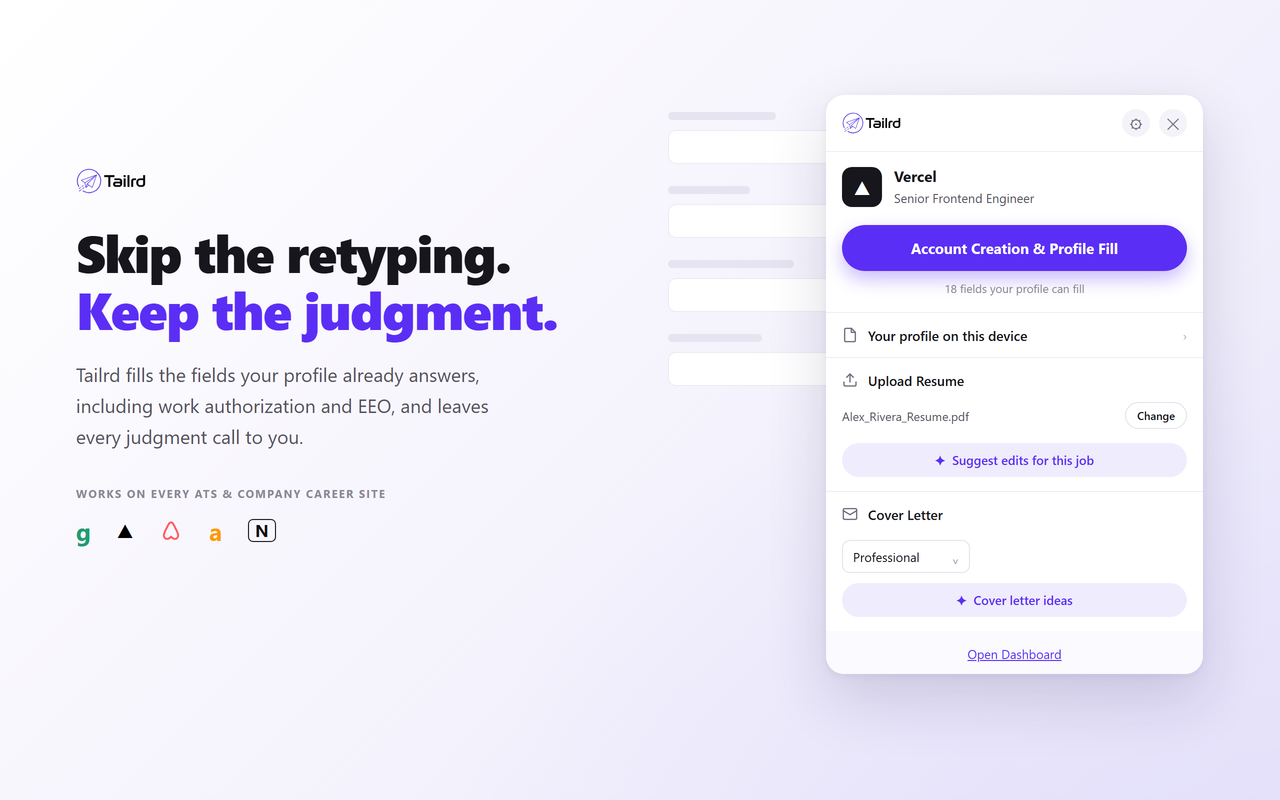
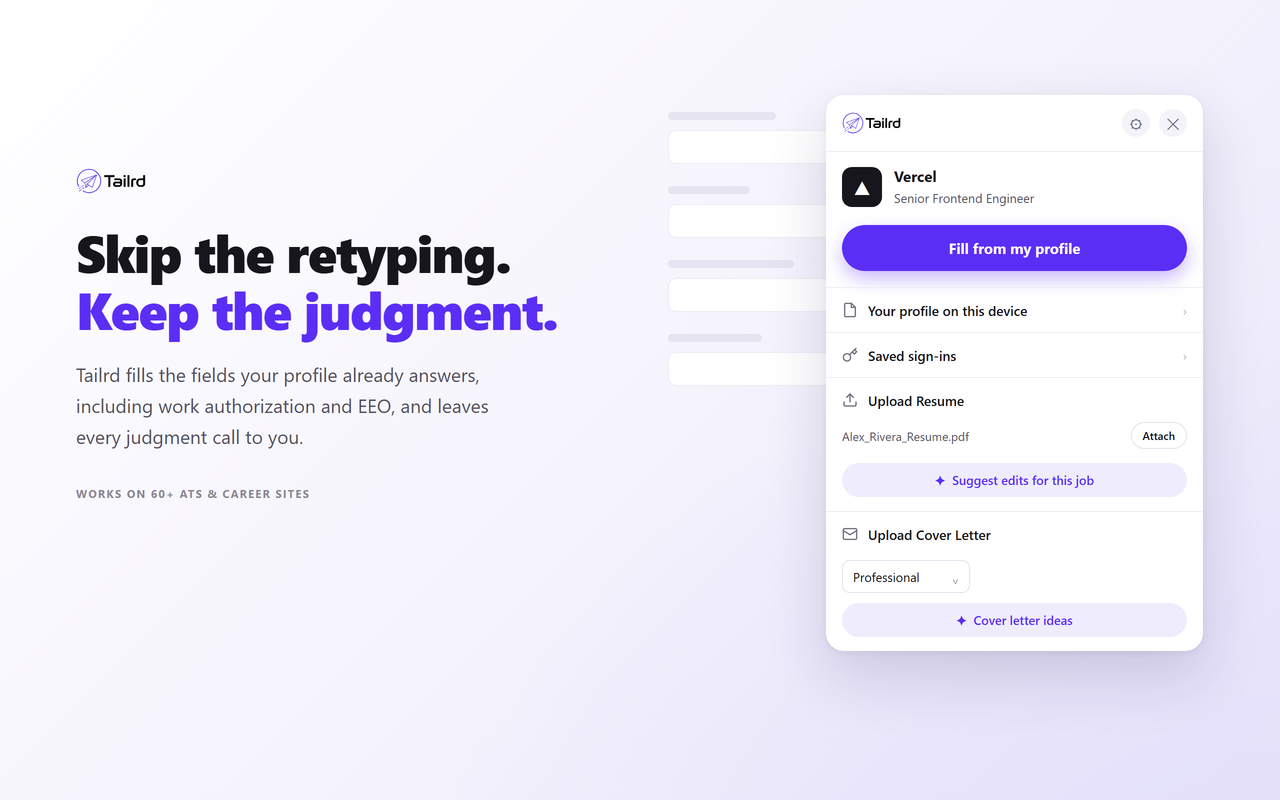
docs(store): screenshot 1 and the marquee tile show the 0.6.0 panel
The Store art drew the panel from before: a "Account Creation & Profile
Fill" button with a "18 fields your profile can fill" caption, "Change" for
the résumé and an "Open Dashboard" link. The 0.6.0 panel reads "Fill from my
profile" with no caption, has a "Saved sign-ins" row, "Attach" and "Upload
Cover Letter", and no dashboard link: both images now draw that.
Screenshot 1 no longer claims "every ATS" (the site registry has 71
platforms: "60+") nor shows other companies' logos (Airbnb, Amazon, Notion,
Vercel), and the marquee names no platforms: 0.4.0's first review was
rejected for a list of platform names. The other four images re-render
byte for byte.

diff --git a/docs/store-submission.md b/docs/store-submission.md
@@ -29,6 +29,13 @@ Package > Upload new package, then Submit for review. To rebuild it: from
   "never field values" disclosure stays true for every Store user.
 - Listing description: the two lines the 0.5.0 section flags are still live
   (checked 2026-10-22). The description below has both edits applied.
+- Images: replace all six with `store-previews/` (the live ones are July's,
+  from before the new logo). Screenshot 1 and the marquee tile were redrawn
+  on 2026-10-22 to the 0.6.0 panel: its button reads "Fill from my profile"
+  (no field-count caption), it has a "Saved sign-ins" row and "Attach", and
+  no "Open Dashboard" link. Screenshot 1 no longer claims "every ATS" nor
+  shows other companies' logos, and the marquee names no platforms (the
+  0.4.0 rejection was for a list of platform names).
 
 **What's new since 0.4.0** (the dashboard has no release-notes field for an
 extension; this is for your records or an announcement):
